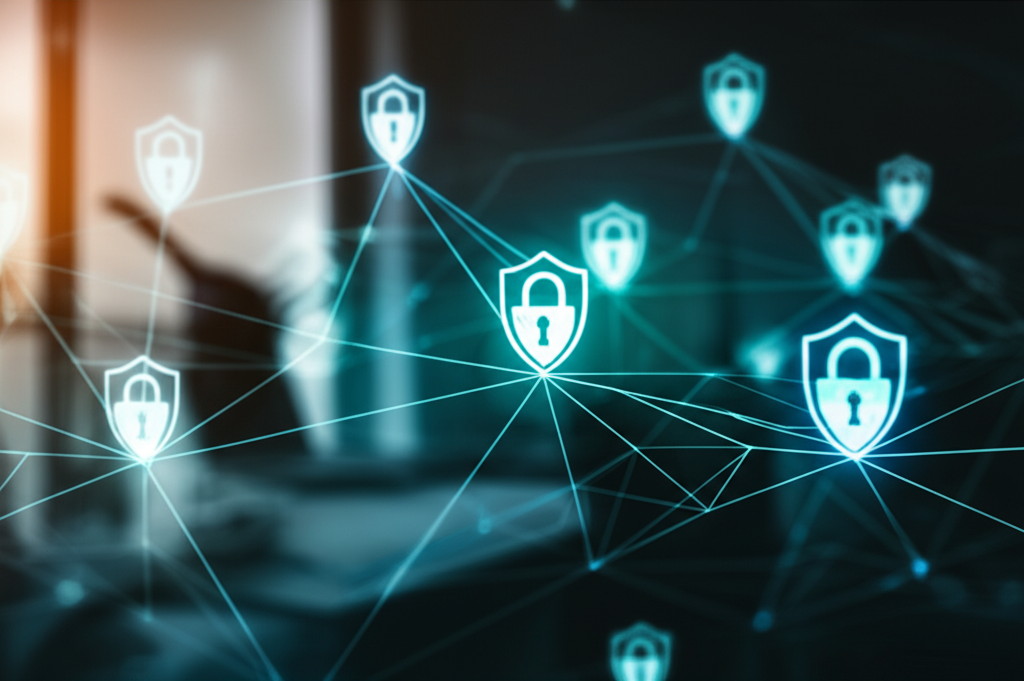
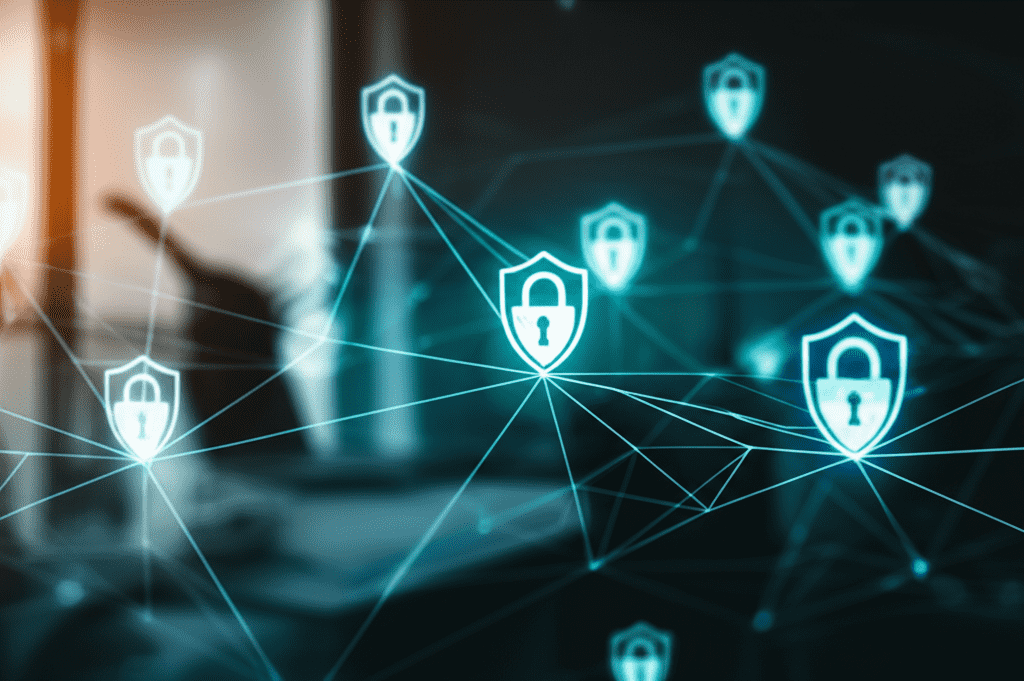
completed the image compression and the contact info

diff --git a/app/contact/page.tsx b/app/contact/page.tsx
@@ -53,20 +53,24 @@ export default function Contact() {
             </div>
             <h3 className="text-xl font-bold mb-2">Email</h3>
             <p className="text-foreground/70">info@smsitsolutions.com.au</p>
+            <p className="text-foreground/70">contact@smsitsolutions.com.au</p>
           </div>
           <div className="p-8 rounded-xl bg-card border border-border text-center">
             <div className="w-12 h-12 rounded-lg bg-gradient-to-br from-primary to-accent flex items-center justify-center mx-auto mb-4">
               <Phone size={24} className="text-white" />
             </div>
             <h3 className="text-xl font-bold mb-2">Phone</h3>
-            <p className="text-foreground/70">+977-1-1234567</p>
+            <p className="text-foreground/70">+977 980-3616675</p>
+            <p className="text-foreground/70">+977 986-2017411</p>
+            <p className="text-foreground/70">+61 450-366-703</p>
           </div>
           <div className="p-8 rounded-xl bg-card border border-border text-center">
             <div className="w-12 h-12 rounded-lg bg-gradient-to-br from-primary to-accent flex items-center justify-center mx-auto mb-4">
               <MapPin size={24} className="text-white" />
             </div>
             <h3 className="text-xl font-bold mb-2">Location</h3>
-            <p className="text-foreground/70">Kathmandu, Nepal</p>
+            <p className="text-foreground/70">SMS IT Solutions –</p>
+            <p className="text-foreground/70">Koteshwor (Opp. Bhatbhateni)</p>
           </div>
         </div>
 
@@ -151,12 +155,9 @@ export default function Contact() {
           {/* Map Placeholder */}
           <div>
             <h2 className="text-3xl font-bold mb-8">Find Us Here</h2>
-            <div className="w-full h-96 rounded-xl bg-muted border border-border overflow-hidden">
-              <img src="/map-office-location-kathmandu.jpg" alt="Office location" className="w-full h-full object-cover" />
-            </div>
             <div className="mt-8 p-6 rounded-lg bg-card border border-border">
               <h3 className="font-bold text-lg mb-2">SMS IT Solutions</h3>
-              <p className="text-foreground/70 mb-4">Kathmandu, Nepal</p>
+              <p className="text-foreground/70 mb-4">Kathmandu, Koteshwor (Opp. Bhatbhateni), Nepal</p>
               <p className="text-foreground/60 text-sm">
                 We're located in the heart of Kathmandu's tech hub, easily accessible and ready to serve you.
               </p>

diff --git a/app/about/page.tsx b/app/about/page.tsx
@@ -4,10 +4,7 @@ import { CheckCircle2 } from "lucide-react"
 
 export default function About() {
   const team = [
-    { name: "Sanjay Mishra", role: "Founder & CEO", image: "👨💼" },
-    { name: "Maya Singh", role: "CTO", image: "👩💼" },
-    { name: "Rohit Patel", role: "Lead Architect", image: "👨💻" },
-    { name: "Ananya Sharma", role: "Head of Operations", image: "👩💼" },
+    { name: "Manish Kumar Shah", role: "Founder & CEO", image: "/manishkumarshah.jpg" },
   ]
 
   const awards = [
@@ -108,10 +105,8 @@ export default function About() {
           <h2 className="text-4xl font-bold mb-12 text-center">Our Team</h2>
           <div className="grid md:grid-cols-4 gap-8">
             {team.map((member, index) => (
-              <div key={index} className="text-center">
-                <div className="w-full aspect-square rounded-xl bg-gradient-to-br from-primary/20 to-accent/20 flex items-center justify-center mb-4 text-6xl">
-                  {member.image}
-                </div>
+              <div key={index} className="text-center" >
+                <img src={member.image} alt={member.name} className="w-full aspect-square rounded-xl bg-gradient-to-br from-primary/20 to-accent/20 flex items-center justify-center mb-4 text-6xl" />
                 <h3 className="font-bold text-lg">{member.name}</h3>
                 <p className="text-foreground/60">{member.role}</p>
               </div>
